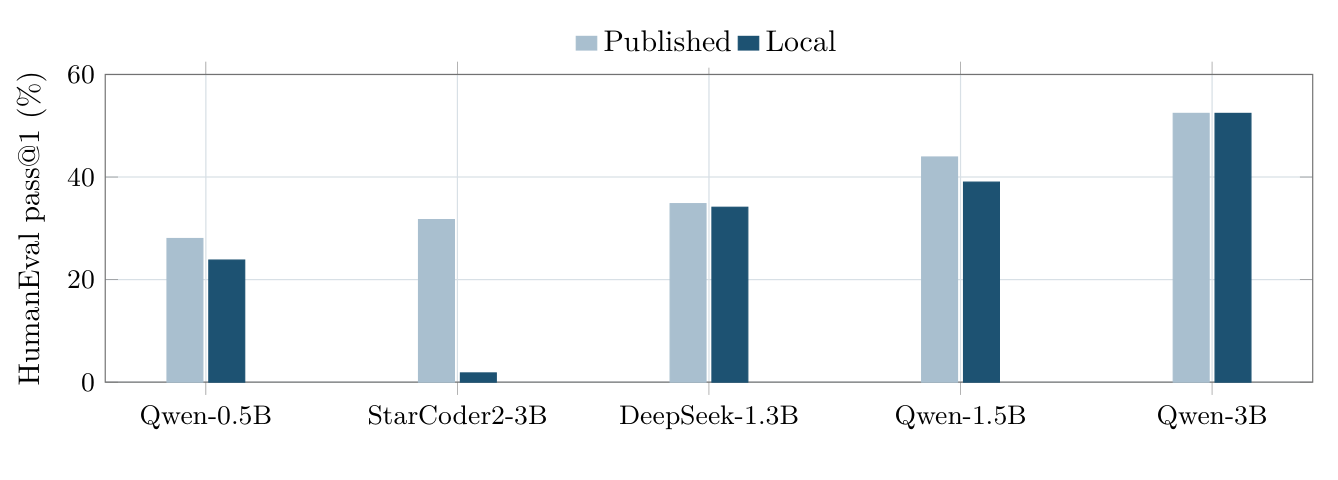
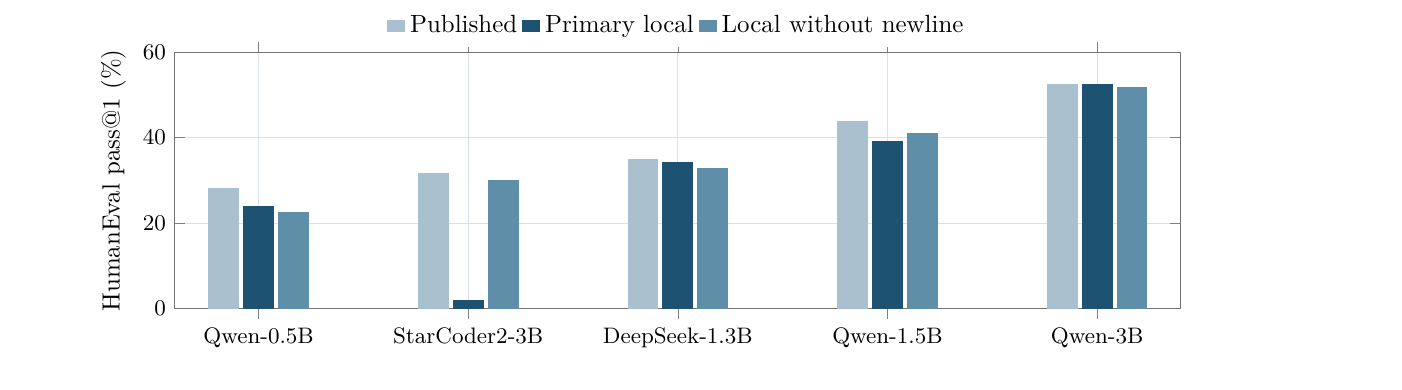
Update research publications and HumanEval report

diff --git a/index.html b/index.html
@@ -39,31 +39,31 @@
       <div class="research-list">
         <article class="research-card featured">
           <a class="research-visual" href="images/research/sampling-budget-embeddings.png"><img src="images/research/sampling-budget-embeddings.png" alt="PCA, TICA, and VAE embeddings across four sampling budgets" loading="lazy"></a>
-          <div class="card-copy"><div class="card-meta"><span class="status current">Submitted to JCTC</span><span>Molecular simulation · Dimensionality reduction</span></div><h3>Sampling Budget Biases Apparent Metastable-State Counts in Molecular Simulation</h3><p>Tests whether apparent state counts from PCA, TICA, and VAE analyses partly reflect the number of saved frames. Controlled synthetic landscapes separate sample size effects from exploration deficits, with validation on two independent 100 ns alanine dipeptide trajectories. Submitted to JCTC on September 15, 2026; the ChemRxiv preprint is under review.</p><div class="card-links"><a href="https://github.com/imjbassi/state-count-sampling-bias">Code &amp; manuscript</a><a href="https://github.com/imjbassi/state-count-sampling-bias/blob/main/paper/main.pdf">PDF</a><a href="https://chemrxiv.org/doc/3ca81cab-c111-4416-99f8-0b2654e38da7">ChemRxiv</a><a href="https://doi.org/10.5281/zenodo.22754433">Dataset</a></div></div>
+          <div class="card-copy"><div class="card-meta"><span class="status current">Under review at JCTC</span><span>Molecular simulation · Dimensionality reduction</span></div><h3>Sampling Budget Biases Apparent Metastable-State Counts in Molecular Simulation</h3><p>Controlled synthetic landscapes and two independent alanine dipeptide trajectories show how sampling budget can inflate apparent state counts. Under review at JCTC after submission on September 15, 2026.</p><div class="card-links"><a href="https://github.com/imjbassi/state-count-sampling-bias">Code &amp; manuscript</a><a href="https://github.com/imjbassi/state-count-sampling-bias/blob/main/paper/main.pdf">PDF</a><a href="https://chemrxiv.org/doc/3ca81cab-c111-4416-99f8-0b2654e38da7">ChemRxiv preprint</a><a href="https://doi.org/10.5281/zenodo.22754433">Versioned dataset</a></div></div>
         </article>
         <article class="research-card">
-          <a class="research-visual" href="images/research/humaneval-ranking-reproduction.png"><img src="images/research/humaneval-ranking-reproduction.png" alt="Published and locally reproduced HumanEval scores for five code models" loading="lazy"></a>
-          <div class="card-copy"><div class="card-meta"><span class="status released">Technical report</span><span>Code models · Local inference</span></div><h3>Do Published HumanEval Rankings Survive Local Deployment? A Five-Model Reproduction on a Consumer GPU</h3><p>Reproduces a published five model ordering under one pinned RTX 4070 evaluation stack. Four models retained their relative order, while StarCoder2 3B reversed with Qwen2.5 Coder 0.5B, reducing Kendall’s tau b to 0.8. Version 1.0 is a technical report and has not been submitted to a venue.</p><div class="card-links"><a href="https://github.com/imjbassi/local-deployment-of-transformer-based-code-assistants">Code &amp; report</a><a href="https://github.com/imjbassi/local-deployment-of-transformer-based-code-assistants/blob/main/paper/output/pdf/Do_Published_HumanEval_Rankings_Survive_Local_Deployment.pdf">PDF</a></div></div>
+          <a class="research-visual" href="images/research/humaneval-ranking-reproduction.png"><img src="images/research/humaneval-ranking-reproduction.png" alt="Published HumanEval scores compared with the primary local pipeline and the no-newline diagnostic condition" loading="lazy"></a>
+          <div class="card-copy"><div class="card-meta"><span class="status released">Technical report v1.9</span><span>Code models · Evaluation pipelines</span></div><h3>One Byte, One Rank Reversal: Auditing HumanEval Pipeline Sensitivity for Base Code Models</h3><p>A pinned five model reproduction on an RTX 4070 found StarCoder2 3B scoring 3 of 164 instead of its published 31.7 percent, reversing a published ranking. Removing one trailing newline from the evaluation prompt raised it to 49 of 164 and restored the order.</p><div class="card-links"><a href="https://github.com/imjbassi/local-deployment-of-transformer-based-code-assistants">Code &amp; report</a><a href="https://github.com/imjbassi/local-deployment-of-transformer-based-code-assistants/blob/main/paper/output/pdf/Do_Published_HumanEval_Rankings_Survive_Local_Deployment.pdf">PDF</a><a href="https://doi.org/10.5281/zenodo.22926448">Versioned archive</a></div></div>
         </article>
         <article class="research-card">
           <a class="research-visual" href="images/research/int8-host-cpu-latency.png"><img src="images/research/int8-host-cpu-latency.png" alt="FP32 and INT8 latency distributions with backend specific speedups" loading="lazy"></a>
-          <div class="card-copy"><div class="card-meta"><span class="status released">Archived preprint</span><span>Edge AI · Host CPU inference</span></div><h3>When Does INT8 Actually Accelerate Host-CPU Inference? A Reproducible Audit of MobileNetV2 Conversion and Packaging</h3><p>Finds that INT8 is smaller but not intrinsically faster or accurate. Per channel INT8 accelerated one thread XNNPACK inference by 1.27 times, yet ran 2.24 times slower without the default delegate. Version 1.2.0 is archived on Zenodo and has not been submitted for peer review.</p><div class="card-links"><a href="https://github.com/imjbassi/efficient-ai-edge-deployment">Code &amp; manuscript</a><a href="https://github.com/imjbassi/efficient-ai-edge-deployment/blob/main/output/pdf/main.pdf">PDF</a><a href="https://doi.org/10.5281/zenodo.22758817">Zenodo DOI</a></div></div>
+          <div class="card-copy"><div class="card-meta"><span class="status released">Archived preprint</span><span>Edge AI · Host CPU inference</span></div><h3>When Does INT8 Actually Accelerate Host-CPU Inference? A Reproducible Audit of MobileNetV2 Conversion and Packaging</h3><p>Shows that INT8 latency depends on backend delegation and quantization granularity, alongside paired accuracy and packaging controls. Version 1.2.0 is archived on Zenodo and has not been submitted for peer review.</p><div class="card-links"><a href="https://github.com/imjbassi/efficient-ai-edge-deployment">Code &amp; manuscript</a><a href="https://github.com/imjbassi/efficient-ai-edge-deployment/blob/main/output/pdf/main.pdf">PDF</a><a href="https://doi.org/10.5281/zenodo.22758817">Zenodo release</a></div></div>
         </article>
         <article class="research-card">
           <a class="research-visual" href="images/research/adversarial-transfer-directionality.png"><img src="images/research/adversarial-transfer-directionality.png" alt="Directional PGD transfer rates across budgets and model pairs" loading="lazy"></a>
-          <div class="card-copy"><div class="card-meta"><span class="status corrected">Revision in progress</span><span>Adversarial ML · CIFAR 10</span></div><h3>Conditioning and Directionality in Adversarial Transfer on CIFAR-10</h3><p>A denominator aware study across ResNet 18, VGG16, and MobileNetV2 with three training seeds, full test evaluation, sensitivity analyses, and prediction level artifacts. The TMLR submission was not accepted, and the paper is now being revised and substantially updated.</p><div class="card-links"><a href="https://github.com/imjbassi/transferability-of-adversarial-attacks">Code &amp; artifacts</a><a href="https://github.com/imjbassi/transferability-of-adversarial-attacks/blob/main/paper/tmlr/main.pdf">Manuscript</a><a href="https://openreview.net/forum?id=0wQCiGLqZx">OpenReview</a><a href="https://doi.org/10.5281/zenodo.22737839">Zenodo DOI</a></div></div>
+          <div class="card-copy"><div class="card-meta"><span class="status current">Under review at TMLR</span><span>Adversarial ML · CIFAR 10</span></div><h3>Conditioning and Directionality in Adversarial Transfer on CIFAR-10</h3><p>A denominator aware full test study across three architectures and three training seeds. The manuscript is under review at Transactions on Machine Learning Research, with an archived reproducibility release.</p><div class="card-links"><a href="https://github.com/imjbassi/transferability-of-adversarial-attacks">Code &amp; artifacts</a><a href="https://github.com/imjbassi/transferability-of-adversarial-attacks/blob/main/paper/tmlr/main.pdf">Manuscript</a><a href="https://openreview.net/forum?id=0wQCiGLqZx">OpenReview</a><a href="https://doi.org/10.5281/zenodo.22737839">Reproducibility release</a></div></div>
         </article>
         <article class="research-card">
           <a class="research-visual" href="images/research/brain-mri-leakage-pairs.png"><img src="images/research/brain-mri-leakage-pairs.png" alt="Nearly identical MRI scans found across benchmark test and training folders" loading="lazy"></a>
-          <div class="card-copy"><div class="card-meta"><span class="status current">Submitted to Scientific Reports</span><span>Medical imaging · Benchmark audit</span></div><h3>Complete Patient-Level Leakage Among Traceable Images in a Widely Used Brain Tumor MRI Benchmark</h3><p>Finds that every traceable tumor test image belongs to a patient also present in training and that 216 test images are pixel identical to training images. The release provides recovered patient identifiers and patient disjoint folds. The manuscript is currently submitted to Scientific Reports.</p><div class="card-links"><a href="https://github.com/imjbassi/brain-tumor-mri-classification">Code &amp; paper</a><a href="https://github.com/imjbassi/brain-tumor-mri-classification/blob/main/paper/main.pdf">PDF</a><a href="https://doi.org/10.5281/zenodo.22755070">Zenodo DOI</a></div></div>
+          <div class="card-copy"><div class="card-meta"><span class="status released">Preprint</span><span>Medical imaging · Benchmark audit</span></div><h3>Complete Patient-Level Leakage Among Traceable Images in a Widely Used Brain Tumor MRI Benchmark</h3><p>Finds complete patient overlap among traceable tumor test images plus substantial duplicate contamination, and releases patient disjoint folds. Available as a preprint and Zenodo artifact; not yet submitted to a journal.</p><div class="card-links"><a href="https://github.com/imjbassi/brain-tumor-mri-classification">Code &amp; paper</a><a href="https://github.com/imjbassi/brain-tumor-mri-classification/blob/main/paper/main.pdf">PDF</a><a href="https://doi.org/10.5281/zenodo.22755070">Zenodo artifact</a></div></div>
         </article>
         <article class="research-card">
           <a class="research-visual" href="images/research/demonstration-failure-dose-response.png"><img src="images/research/demonstration-failure-dose-response.png" alt="Closed loop success and open loop error across five demonstration failure modes" loading="lazy"></a>
-          <div class="card-copy"><div class="card-meta"><span class="status current">Submitted to CoRL 2026 LfC</span><span>Robot learning · Data quality</span></div><h3>Not All Bad Demonstrations Are Equally Bad: Quantifying How Demonstration Failure Modes Degrade Closed-Loop Policy Performance</h3><p>A controlled study of 660 policy fits across five failure modes, two policy families, ten seeds, and transition matched controls. It shows why open loop prediction error can misrepresent closed loop policy damage. Submitted to the CoRL 2026 Learning from Corrections and Interventions workshop.</p><div class="card-links"><a href="https://github.com/imjbassi/demo-quality-robustness">Code &amp; results</a><a href="https://github.com/imjbassi/demo-quality-robustness/blob/master/paper.pdf">PDF</a><a href="https://openreview.net/forum?id=DBSdaBnibW">OpenReview</a></div></div>
+          <div class="card-copy"><div class="card-meta"><span class="status current">Under review at CoRL 2026 LfC</span><span>Robot learning · Data quality</span></div><h3>Not All Bad Demonstrations Are Equally Bad: Quantifying How Demonstration Failure Modes Degrade Closed-Loop Policy Performance</h3><p>A controlled study of 660 policy fits across five failure modes, two policy families, ten seeds, and transition matched controls. Under review at the CoRL 2026 Learning from Corrections and Interventions workshop.</p><div class="card-links"><a href="https://github.com/imjbassi/demo-quality-robustness">Code &amp; results</a><a href="https://github.com/imjbassi/demo-quality-robustness/blob/master/paper.pdf">PDF</a><a href="https://openreview.net/forum?id=DBSdaBnibW">OpenReview</a></div></div>
         </article>
         <article class="research-card">
           <a class="research-visual" href="images/research/smoothness-length-control-audit.png"><img src="images/research/smoothness-length-control-audit.png" alt="Trajectory smoothness metrics under episode length controls" loading="lazy"></a>
-          <div class="card-copy"><div class="card-meta"><span class="status current">Three workshop submissions</span><span>Robot learning · Demonstration curation</span></div><h3>Smoothness Ranks Skill, Not Success: An Audit of Published Trajectory-Smoothness Curation Metrics Under Episode-Length Controls</h3><p>Audits SAL and TED on robomimic and finds that the metrics primarily rank operator skill rather than task success. Venue specific versions are under review at CoRL WEBP, NeurIPS RoboPAD, and CoRL Oops, I Erred.</p><div class="card-links"><a href="https://github.com/imjbassi/smoothness-audit">Code &amp; papers</a><a href="https://www.researchgate.net/publication/413763343_Smoothness_Ranks_Skill_Not_Success_An_Audit_of_Published_Trajectory-Smoothness_Curation_Metrics_Under_Episode-Length_Controls">Base preprint</a><a href="https://openreview.net/forum?id=8HHUxS9GcK">WEBP OpenReview</a><a href="https://openreview.net/forum?id=wj9Kj3hsJs">RoboPAD OpenReview</a><a href="https://openreview.net/forum?id=7C6WROjCKQ">Oops OpenReview</a></div></div>
+          <div class="card-copy"><div class="card-meta"><span class="status current">Three workshop submissions</span><span>Robot learning · Demonstration curation</span></div><h3>Smoothness Ranks Skill, Not Success: An Audit of Published Trajectory-Smoothness Curation Metrics Under Episode-Length Controls</h3><p>Base preprint plus three venue specific workshop submissions under review at CoRL WEBP, NeurIPS RoboPAD, and CoRL Oops, I Erred.</p><div class="card-links"><a href="https://github.com/imjbassi/smoothness-audit">Code &amp; papers</a><a href="https://www.researchgate.net/publication/413763343_Smoothness_Ranks_Skill_Not_Success_An_Audit_of_Published_Trajectory-Smoothness_Curation_Metrics_Under_Episode-Length_Controls">Base preprint</a><a href="https://openreview.net/forum?id=8HHUxS9GcK">WEBP OpenReview</a><a href="https://openreview.net/forum?id=wj9Kj3hsJs">RoboPAD OpenReview</a><a href="https://openreview.net/forum?id=7C6WROjCKQ">Oops OpenReview</a></div></div>
         </article>
       </div>
     </section>
